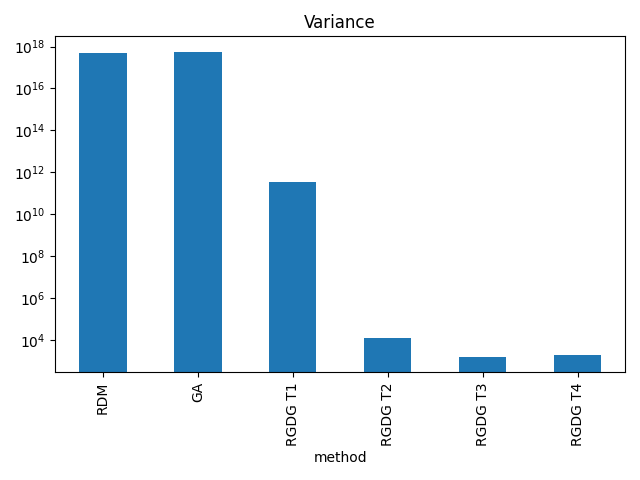
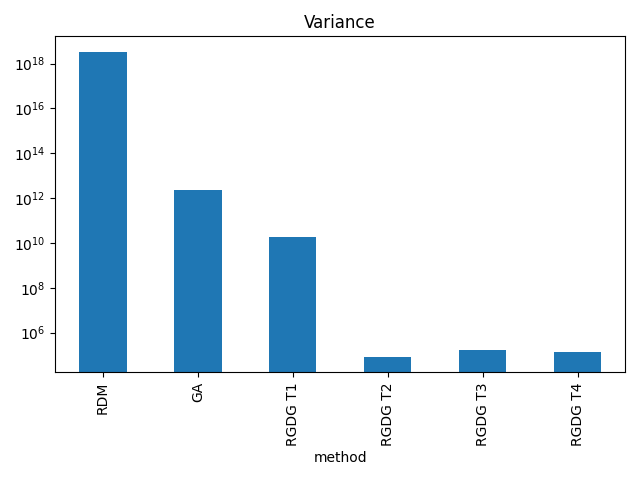
bug fix

diff --git a/main.py b/main.py
@@ -76,7 +76,7 @@ def main():
     # for template in template_sequence:
     #     target_base_character_status = template
 
-    target_base_character_status = base_character_status_glass_cannon_template
+    target_base_character_status = base_character_status_boss_template
 
     skill_builder = SkillBuilder(modifier_space, skeleton_constraints)
 
@@ -93,7 +93,7 @@ def main():
 
     # generate random entries pool
     entries_pool = []
-    for _ in range(config.SAMPLES_PER_FOLD * 10):
+    for _ in range(config.SAMPLES_PER_FOLD):
         entries = generate_pure_random_entries(
             modifier_space, skeleton_constraints, skill_builder
         )
@@ -101,7 +101,7 @@ def main():
 
     random.shuffle(entries_pool)
 
-    pure_random_samples = random.sample(entries_pool, config.SAMPLES_PER_FOLD)
+    pure_random_samples = entries_pool # random.sample(entries_pool, config.GA_POPULATION_SIZE)
 
     # pure random skill evaluation and metrics
     for entries in pure_random_samples:
@@ -187,8 +187,8 @@ def main():
     # GA skill generation and evaluation
     ga_generated_skill_list_with_fitness = []
 
-    for i in range(0, len(entries_pool), config.SAMPLES_PER_FOLD):
-        population = entries_pool[i : i + config.SAMPLES_PER_FOLD]
+    for i in range(0, len(entries_pool), config.GA_POPULATION_SIZE):
+        population = entries_pool[i : i + config.GA_POPULATION_SIZE]
 
         ga_result = generate_ga_skill(
             modifier_space=modifier_space,

diff --git a/fitness.py b/fitness.py
@@ -1,6 +1,6 @@
-import config
 from models import Skill, Entry
 from skill_simulator import SkillSimulator
+import config
 
 
 def calculate_fitness(
@@ -73,15 +73,15 @@ def aggregate_losses_to_fitness(losses: dict) -> float:
 
 
 def calculate_dmg_loss(total_dmg: float, target_hp: int) -> float:
-    return (1 - target_hp / total_dmg) ** 2
+    return (config.TARGET_ROUNDS - target_hp / (total_dmg * 1 + 1e-6)) ** 2
 
 
 def calculate_cost_loss(total_cost: float, total_dmg: float) -> float:
-    return (1 - total_dmg / (total_cost * 1 + 1e-6)) ** 2
+    return (config.TARGET_DMG_COST_RATIO - total_dmg / (total_cost * 1 + 1e-6)) ** 2
 
 
 def calculate_fatigue_loss(total_fatigue: float, total_dmg: float) -> float:
-    return (1 - total_dmg / (total_fatigue * 1 + 1e-6)) ** 2
+    return (config.TARGET_DMG_FATIGUE_RATIO - total_dmg / (total_fatigue * 1 + 1e-6)) ** 2
 
 
 def calculate_dmg_taken_loss(

diff --git a/ga_skill_generator.py b/ga_skill_generator.py
@@ -266,7 +266,6 @@ def repair_entries(
     skeleton_constraints: dict,
     skill_builder: SkillBuilder,
 ) -> list[Entry]:
-    # constraints: dict = copy.deepcopy(skeleton_constraints["constraints"])
     remaining_quota = {
         entry_type: rule["max"]
         for entry_type, rule in skeleton_constraints["constraints"].items()

diff --git a/config.py b/config.py
@@ -24,6 +24,8 @@ SAMPLES_PER_FOLD = 1000
 # game designer issued parameters
 TOTAL_TIERS = 4
 
-TOTAL_ROUNDS = 3
-
+TOTAL_ROUNDS = 10
 TARGET_ROUNDS = 4
+
+TARGET_DMG_COST_RATIO = 1.0
+TARGET_DMG_FATIGUE_RATIO = 1.0
